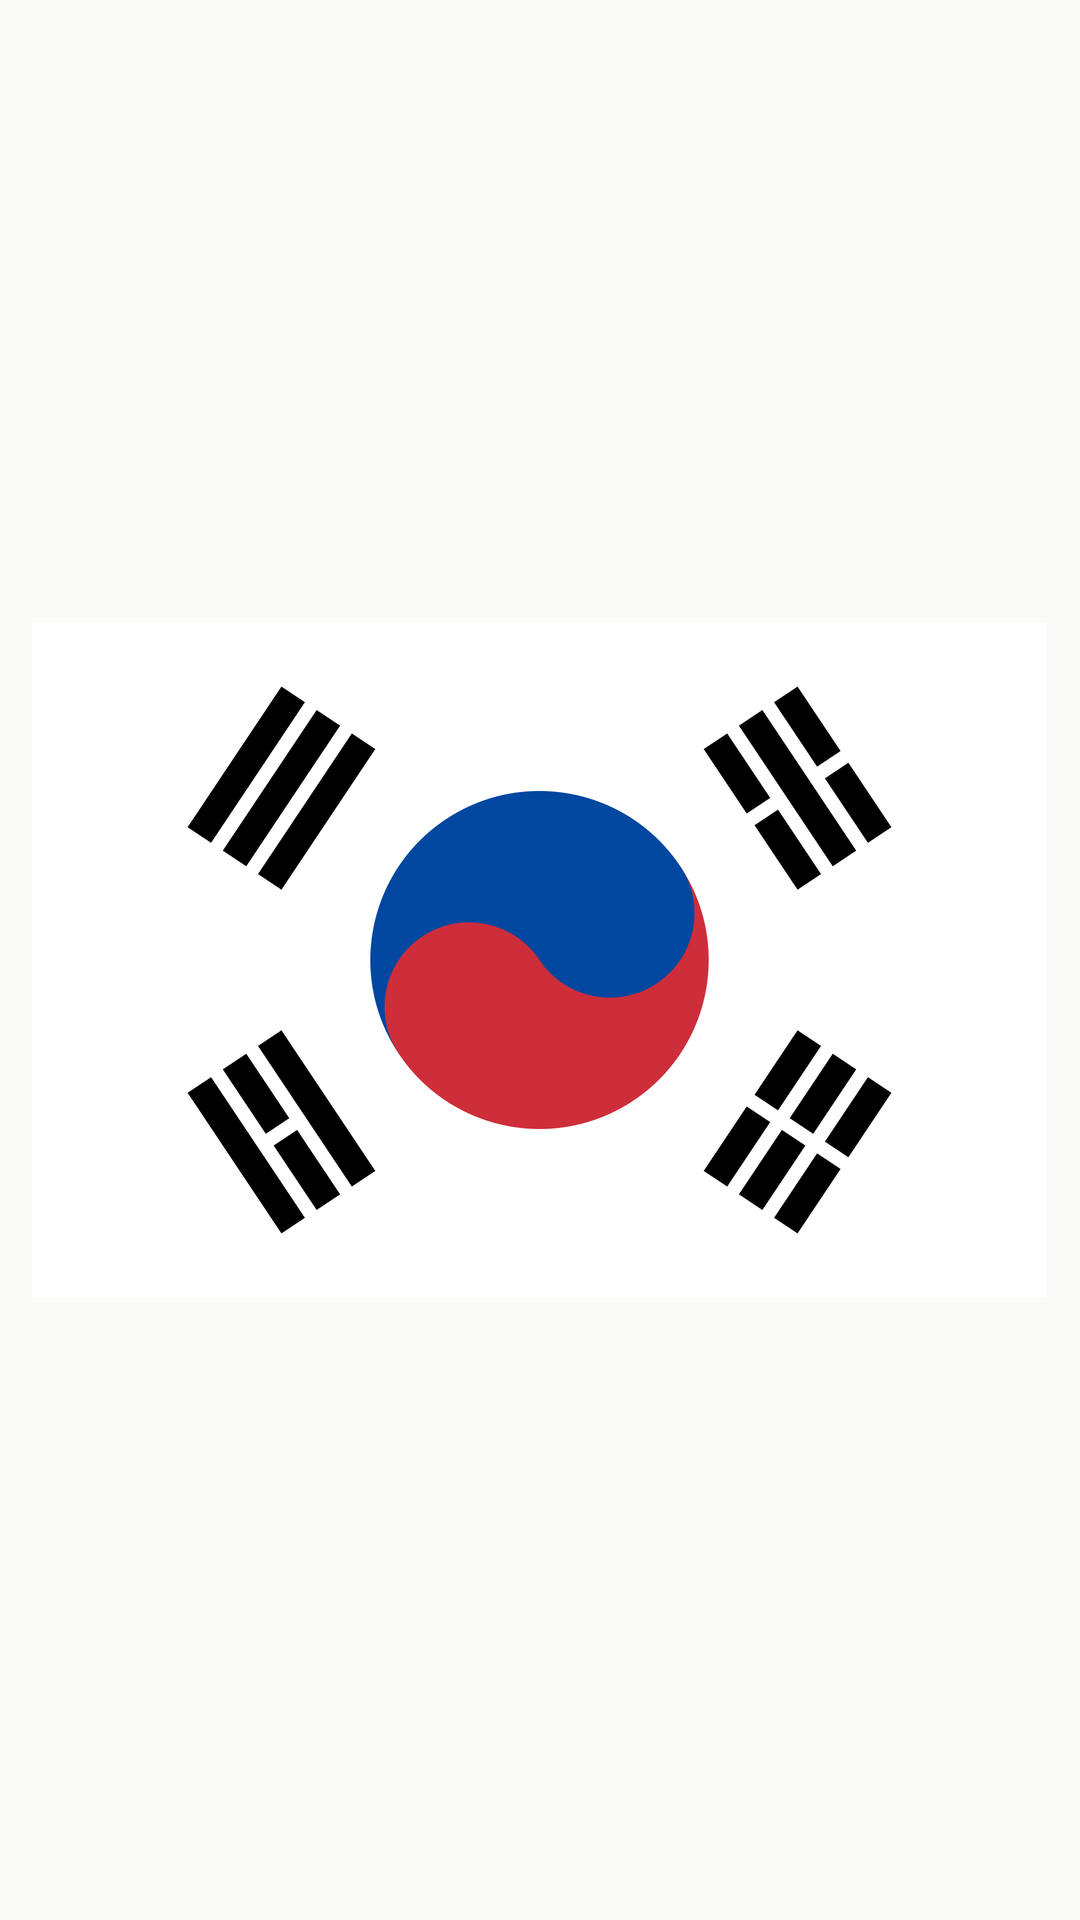
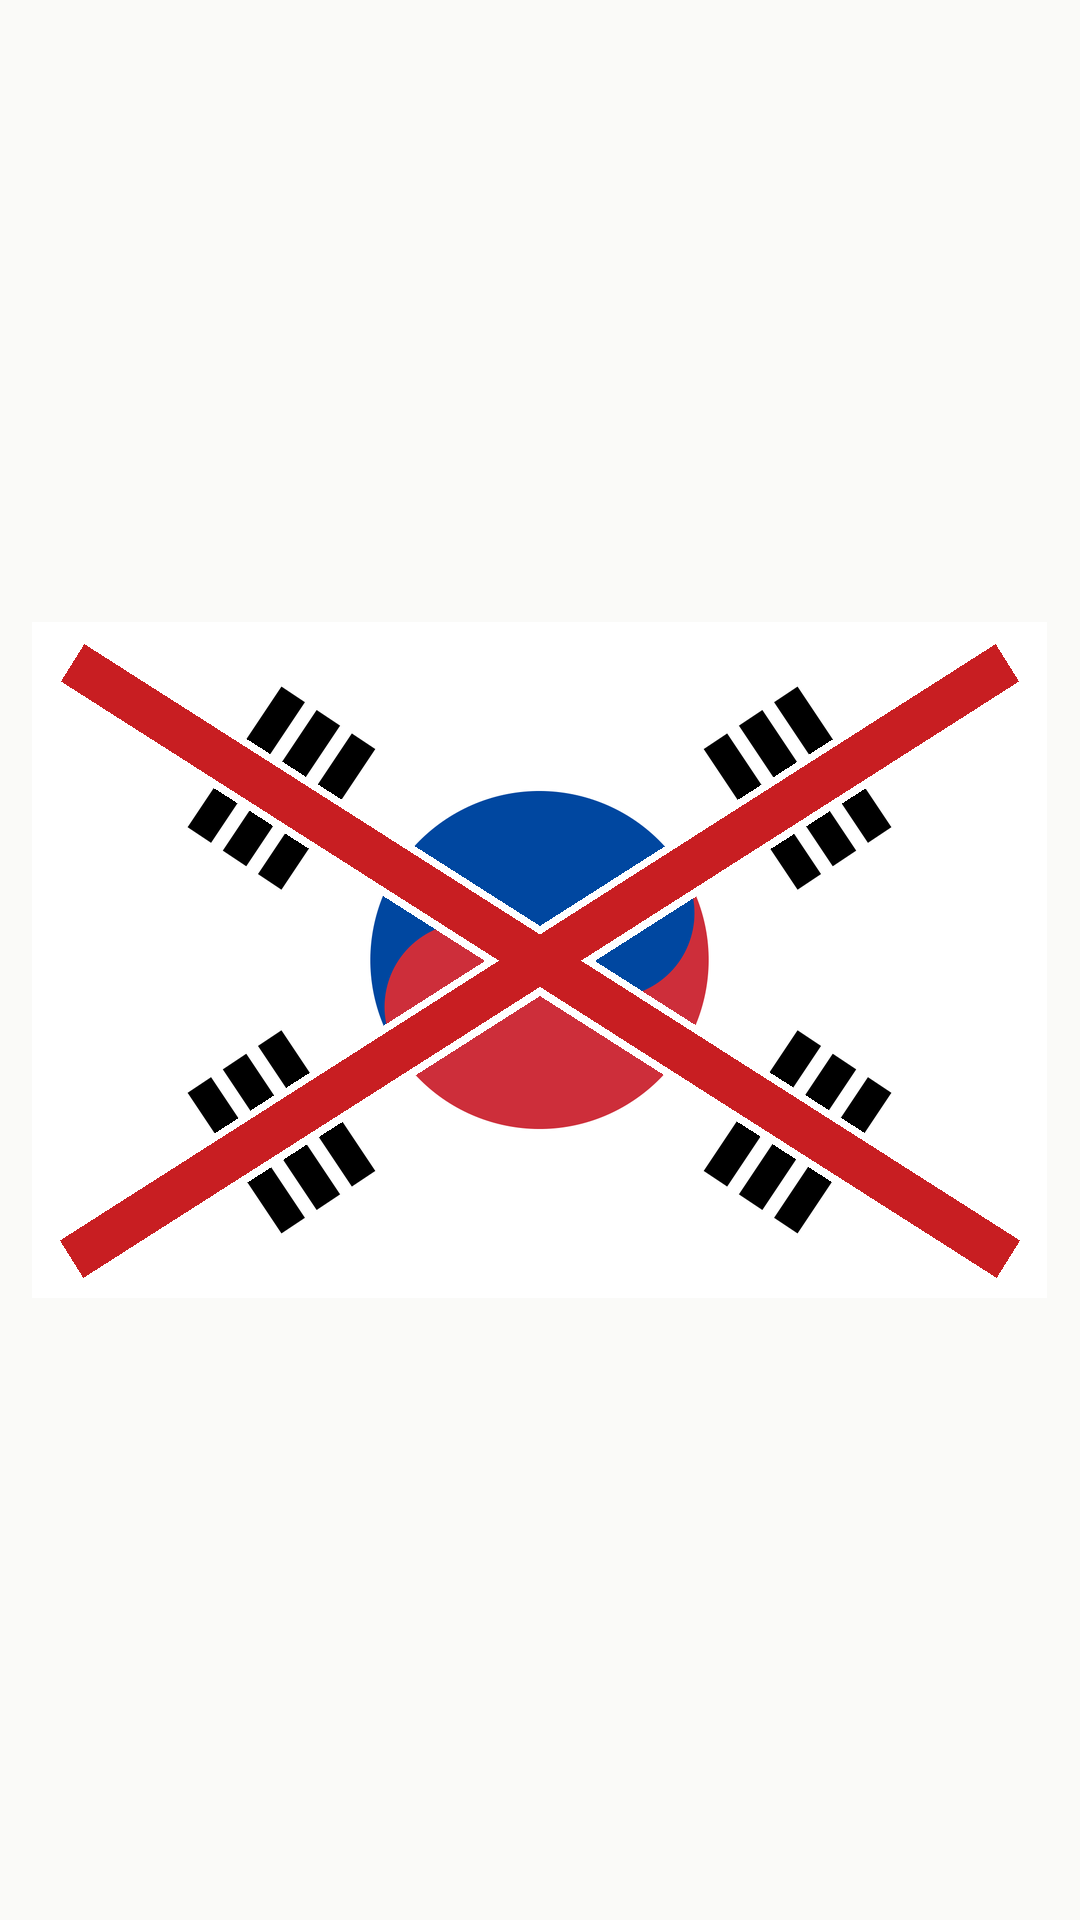
태극기 퀴즈 오답 X·정답 테두리 표시 + 전역 규칙 신설(오답은 화면에 반드시 표시)
디렉터: 소리 없이 본 사람에게 오답이 태극기로 각인될 위험

Changed region(s): [[0.0611, 0.3125, 0.9472, 0.6875]]

diff --git a/content/CALENDAR.md b/content/CALENDAR.md
@@ -90,7 +90,9 @@
     · fact3 `file:assets/bg_flag/bg_f3.png` (정답 태극 위 / 물결반전 태극 아래 — 세로 비교)
     · twist `file:assets/bg_flag/bg_twist.png` (정답 전체)
     · cta `file:assets/bg_flag/bg_cta.png`
+    · **정답 공개용** `file:assets/bg_flag/bg_answer.png` (그리드에 O/X 표시 — twist에서 쓰면 좋다)
     원본 4종은 `q1_taegeuk_flip / q2_gwae_swap / q3_correct / q4_wave_mirror.png`. 전부 위키미디어 공식 국기(PD)를 이미지 변환만으로 생성.
+  - **❗ 오답 태극기에는 반드시 X 표시 (2026-08-15 디렉터 지시 — 안전 규칙, 위반 시 기각)**: "소리 없이 대충 본 사람에게 오답이 태극기로 잘못 각인될 수 있다." 오답이 등장하는 모든 씬(fact1·fact2·fact3 하단·정답공개 그리드)에는 **깃면 전체를 가로지르는 붉은 X**가 이미 얹혀 있다. 정답은 가리지 않는 **초록 테두리**로 표시한다. **훅(문제 제시)만 표시 없음** — 퀴즈 성립 때문. 배경을 새로 만들거나 교체할 경우에도 이 규칙을 그대로 지켜라.
   - **📐 fact2에 획수 규칙 필수 (디렉터 지시 08:45 "획수 3-4-5-6도 넣어줘")**: 괘 위치 설명에 이어 **"왼쪽 위부터 획을 세면 3, 4, 5, 6"** — 건 ☰ 3획(좌상) → 리 ☲ 4획(좌하) → 감 ☵ 5획(우상) → 곤 ☷ 6획(우하). 자막에도 `3 · 4 · 5 · 6`이 보이게 하라. 획수는 제작 세션이 직접 세어 재확인할 것.
   - **⚠ 이미지 제작 규칙**: 자체 드로잉·PIL 도해 **금지**. **위키미디어 「Flag of South Korea」(퍼블릭도메인) 공식 PNG를 받아 이미지 변환으로만** 오답 3종 생성 — 1번=태극 원 영역 상하 반전, 2번=괘 위치 교체, 4번=태극 원 영역 좌우 반전. 흰 배경·괘 색을 임의로 칠하지 마라. 4분할 그리드는 이 4장을 배치해 만든다.
   - **⚠ REJECTED 예외 명시**: REJECTED.md의 태극기 「왜 헷갈릴까 — 세 군데 확인법」(2026-08-12 기각)과 이 편은 **별건**이다 — 그건 설명·나열형이었고 이건 **디렉터가 직접 지시한 퀴즈·참여형**이다. 대조에서 멈추지 말고 진행하라.

diff --git a/DAILY_PROMPT.md b/DAILY_PROMPT.md
@@ -31,6 +31,8 @@
 - **잣대는 한 개다.** 오늘 어떤 정책의 실패를 다뤘다면, 다음에 반대 진영 정책의 같은 실패도 피하지 않는다. 한쪽만 계속 다루고 있지 않은지 topics_used.md로 자기 점검하라.
 - **평가 언어는 결과 서술로.** "~해서 ~가 됐다"(사실·결과)로 말하고, "무능하다/영리하다" 같은 인물·진영 수식어는 금지.
 
+**❌ 오답·잘못된 것을 화면에 띄울 땐 반드시 표시 (2026-08-15 디렉터 지시)**: 틀린 예시(잘못 단 국기, 잘못된 표기, 오해)를 배경·자막으로 보여줄 때는 **화면 안에 X 등 부정 표시를 얹어라.** 근거: 릴스는 소리 없이 스크롤하며 보는 사람이 많고, 그 한 프레임만 스친 사람에게는 **오답이 정답으로 각인된다.** 특히 국가상징·안전·건강처럼 오정보 비용이 큰 소재는 예외 없다. 정답은 가리지 말고(테두리 등) 오답은 확실히 지워라 — 설명은 소리로 하지만 표시는 눈으로 남는다.
+
 **🇰🇷 국가상징(애국) 소재 안전선 (2026-08-14 디렉터 우려 + 댓글 실측으로 신설 — 태극기 편 YT 댓글 7건 중 3건이 정당·간첩·진영 언급. 애국은 필살기지만 정치색이 묻으면 채널이 죽는다)**: 국가상징·역사 소재는 계속 쓴다 — 단 이 선 안에서만:
 ① **각도는 지식·실용·문화·과학만** — 다는 법·유래·규정·제작 원리·과학적 사실. 현대 정치 사건·인물·정당·시위와 연결되는 각도는 아무리 화제여도 금지.
 ② **타이밍 역주의**: 정치 이벤트(시위·집회·정쟁)로 국가상징이 실검에 오른 날은 오히려 피하라 — 그날 올리면 내용이 중립이어도 그 맥락으로 소비된다. 게시 명분이 가장 깨끗한 날은 국경일 자체다(광복절·현충일 등).
